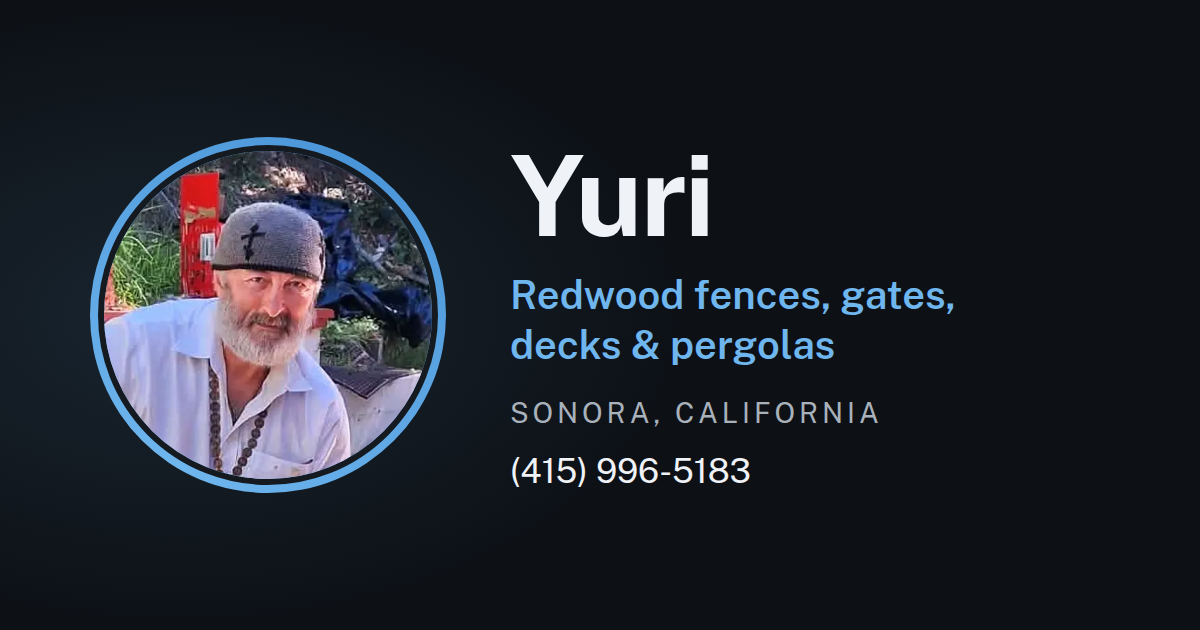
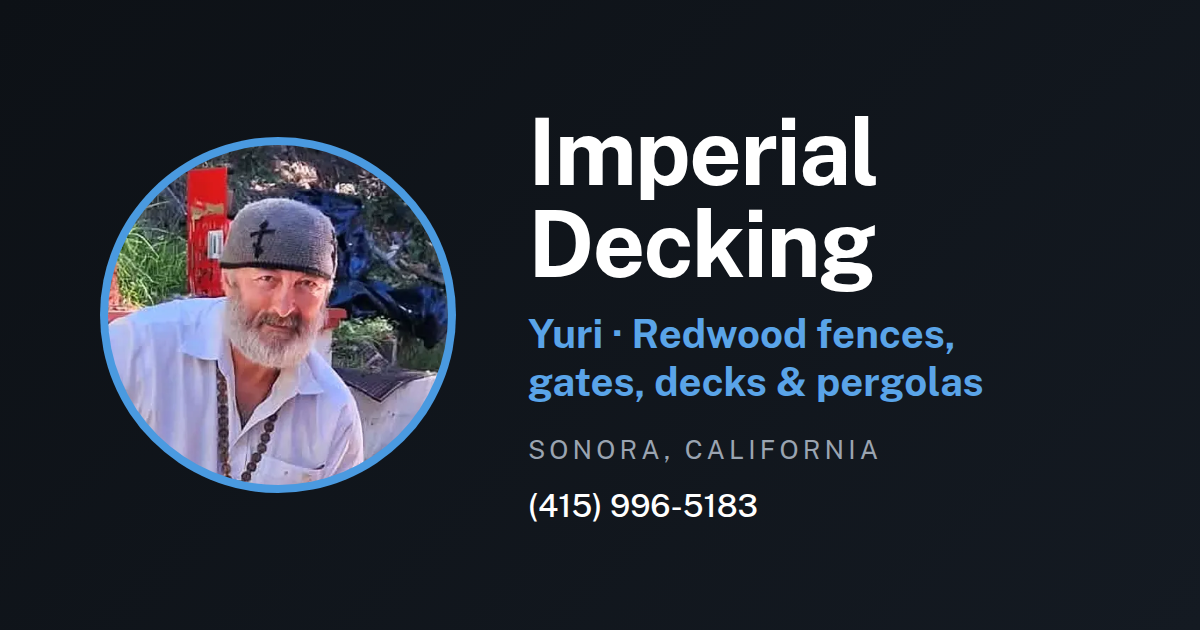
Rename business to Imperial Decking; move card to imperialdecking.vercel.app

Changed region(s): [[0.0617, 0.181, 0.8325, 0.8444]]

diff --git a/index.html b/index.html
@@ -4,19 +4,19 @@
     <meta charset="UTF-8" />
     <meta name="viewport" content="width=device-width, initial-scale=1.0" />
     <meta name="theme-color" content="#0d1116" />
-    <title>Yuri — Redwood fences, gates, decks &amp; pergolas · Sonora, CA</title>
+    <title>Imperial Decking — Redwood fences, gates, decks &amp; pergolas · Sonora, CA</title>
     <meta
       name="description"
-      content="Yuri builds redwood fences, gates, decks, pergolas and arbors, measured and built on site. Based in Sonora, California. Call, text or WhatsApp (415) 996-5183."
+      content="Imperial Decking (Yuri) builds redwood fences, gates, decks, pergolas and arbors, measured and built on site. Based in Sonora, California. Call, text or WhatsApp (415) 996-5183."
     />
     <meta property="og:type" content="profile" />
-    <meta property="og:title" content="Yuri — Redwood fences, gates, decks & pergolas" />
+    <meta property="og:title" content="Imperial Decking — Redwood fences, gates, decks & pergolas" />
     <meta
       property="og:description"
       content="Based in Sonora, California. Send me a photo of your space."
     />
-    <meta property="og:url" content="https://sendmespace.vercel.app" />
-    <meta property="og:image" content="https://sendmespace.vercel.app/og-image.png" />
+    <meta property="og:url" content="https://imperialdecking.vercel.app" />
+    <meta property="og:image" content="https://imperialdecking.vercel.app/og-image.png" />
     <meta property="og:image:width" content="1200" />
     <meta property="og:image:height" content="630" />
     <meta name="twitter:card" content="summary_large_image" />

diff --git a/src/components/Identity.tsx b/src/components/Identity.tsx
@@ -1,12 +1,12 @@
 import { MapPin } from "lucide-react"
 
-/* First name only: his full name and any business name are unconfirmed (NOTES.md). */
+/* Business name confirmed: Imperial Decking. Full personal name still unconfirmed (NOTES.md). */
 export function Identity() {
   return (
     <div className="relative z-2 px-gutter pt-4 pb-1.5 text-center">
-      <h1 className="text-[1.9rem] leading-tight font-bold tracking-[-0.02em]">Yuri</h1>
+      <h1 className="text-[1.9rem] leading-tight font-bold tracking-[-0.02em]">Imperial Decking</h1>
       <div className="mt-1 text-[1.02rem] font-medium text-primary">
-        Redwood fences, gates, decks &amp; pergolas
+        Yuri · Redwood fences, gates, decks &amp; pergolas
       </div>
       <div className="mt-3 inline-flex items-center gap-1.5 rounded-full border border-border px-3.5 py-1 text-[0.75rem] font-medium tracking-[0.08em] text-muted-foreground uppercase">
         <MapPin className="size-3.5 text-primary" strokeWidth={2} />

diff --git a/src/App.tsx b/src/App.tsx
@@ -19,8 +19,8 @@ import { SITE_URL } from '@/lib/site'
 async function shareCard(showToast: (message: string) => void) {
   const url = SITE_URL
   const data = {
-    title: 'Yuri — Redwood fences, gates, decks & pergolas',
-    text: 'Yuri builds redwood fences, gates, decks and pergolas. Based in Sonora, CA.',
+    title: 'Imperial Decking — Redwood fences, gates, decks & pergolas',
+    text: 'Imperial Decking (Yuri) builds redwood fences, gates, decks and pergolas. Based in Sonora, CA.',
     url,
   }
   if (navigator.share) {

diff --git a/src/components/Footer.tsx b/src/components/Footer.tsx
@@ -1,7 +1,7 @@
 export function Footer() {
   return (
     <footer className="px-gutter pt-9 pb-[30px] text-center text-[0.78rem] text-muted-foreground">
-      <div>Yuri · Redwood outdoor structures · Sonora, California</div>
+      <div>Imperial Decking · Yuri · Redwood outdoor structures · Sonora, California</div>
       <div className="mt-2">
         {/* Deliberately not a link yet — see NOTES.md at the repo root. */}
         Card by <span className="font-semibold text-primary">Proclaim Agency</span>

diff --git a/src/lib/site.ts b/src/lib/site.ts
@@ -1,6 +1,6 @@
 // Canonical public URL of the card. Used by the Share button so shared links never
 // leak per-deployment Vercel URLs. Update when a custom domain is attached.
-export const SITE_URL = "https://sendmespace.vercel.app"
+export const SITE_URL = "https://imperialdecking.vercel.app"
 
 // Confirmed number (from Yuri's WhatsApp contact). Whether this is the number he wants
 // published is still a TODO, see NOTES.md.

diff --git a/NOTES.md b/NOTES.md
@@ -14,8 +14,8 @@ Nothing on this card is invented. Where a fact is missing, the section or field 
   `src/components/Identity.tsx` (h1), `public/Yuri.vcf` (`FN:`, `N:`, and rename the file +
   the `href`/`download` in `src/components/QuickActions.tsx`), `index.html` (title, og:title),
   `src/App.tsx` (share title/text), `src/components/Footer.tsx`, `public/og-image.png`.
-- **Business name** — none confirmed. If one exists: `Identity.tsx` (line under the name),
-  `Yuri.vcf` (`ORG:`), `index.html`, `Footer.tsx`.
+- **Business name** — confirmed: **Imperial Decking** (h1 in `Identity.tsx`, `ORG:` in
+  `Yuri.vcf`, `index.html`, `Footer.tsx`, share text in `App.tsx`). Yuri stays as the person.
 - **Email** — unknown, so there is no Email tile and no `EMAIL:` in the vCard. Add a tile in
   `src/components/QuickActions.tsx` (the 4-column grid will need 5 columns or a swap) and
   `EMAIL:` in `public/Yuri.vcf`.
@@ -58,7 +58,7 @@ callback promise, pricing. Those template components were deleted, not hidden.
   apple-touch-icon were regenerated from the portrait.
 
 ### Deployment
-Live at https://sendmespace.vercel.app (Vercel project `yuri-card`, auto-deploys from `main`
+Live at https://imperialdecking.vercel.app (Vercel project `yuri-card`, auto-deploys from `main`
 on github.com/Robo8852/yuri-card). Update `src/lib/site.ts` and `index.html` if a custom
 domain is attached.
 
